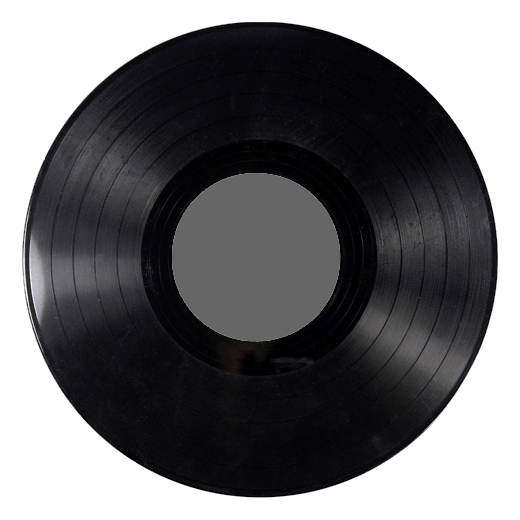
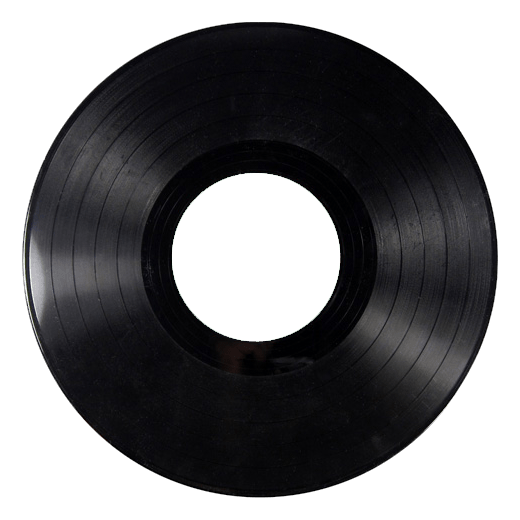
Fix background and remove disc rotation for performance

Changed region(s): [[0.3077, 0.3077, 0.6769, 0.6769]]

diff --git a/src/components/Player.js b/src/components/Player.js
@@ -15,26 +15,28 @@ export default class Player extends React.Component {
   render() {
     return (
       <div className="player">
-        <Grid className="player_grid">
-          <PlayerDisc album={this.props.album} playing={this.props.playing && !this.props.loading}/>
+        <div className="player_content">
+          <Grid className="player_grid">
+            <PlayerDisc album={this.props.album} playing={this.props.playing && !this.props.loading}/>
 
-          <PlayerDescription album={this.props.album}
-                             track={this.props.track}/>
+            <PlayerDescription album={this.props.album}
+                               track={this.props.track}/>
 
-          {!this.props.track ? null :
-            <PlayerControl playing={this.props.playing}
-                           loading={this.props.loading}
-                           onPlay={this.props.onPlay}
-                           onPause={this.props.onPause}/>
-          }
+            {!this.props.track ? null :
+              <PlayerControl playing={this.props.playing}
+                             loading={this.props.loading}
+                             onPlay={this.props.onPlay}
+                             onPause={this.props.onPause}/>
+            }
+          </Grid>
+        </div>
 
-          <PlayerAudio track={this.props.track}
-                       autoplay={this.props.autoplay}
-                       playing={this.props.playing}
-                       onPlay={this.props.onPlay}
-                       onPause={this.props.onPause}
-                       onEnd={this.props.onEnd}/>
-        </Grid>
+        <PlayerAudio track={this.props.track}
+                     autoplay={this.props.autoplay}
+                     playing={this.props.playing}
+                     onPlay={this.props.onPlay}
+                     onPause={this.props.onPause}
+                     onEnd={this.props.onEnd}/>
       </div>
     )
   }

diff --git a/src/components/player/PlayerDisc.js b/src/components/player/PlayerDisc.js
@@ -2,7 +2,7 @@ import * as React from "react";
 
 import {Image} from "react-bootstrap";
 
-import image from "../../images/vinyl.png";
+import image from "../../images/vinyl_small.png";
 import "./PlayerDisc.scss";
 
 export default class PlayerDisc extends React.Component {
@@ -14,7 +14,7 @@ export default class PlayerDisc extends React.Component {
       <div className={classes.join(' ')}>
         <Image className="player-disc_vinyl" src={image} responsive/>
         {!this.props.album ? null :
-          <Image className="player-disc_album" src={this.props.album.cover} circle/>
+          <Image className="player-disc_album" src={this.props.album.cover} circle responsive/>
         }
       </div>
     )

diff --git a/src/components/Player.scss b/src/components/Player.scss
@@ -1,13 +1,15 @@
 .player {
-  background: rgba(0, 0, 0, .95);
-  border-top: 1px solid rgba(0, 0, 0, 1);
-  padding: .75rem;
-  position: fixed;
-  height: 5.25rem;
-  bottom: 0;
-  left: 0;
-  width: 100%;
-  z-index: 1;
+  &_content {
+    background: rgba(0, 0, 0, .95);
+    border-top: 1px solid rgba(0, 0, 0, 1);
+    padding: .75rem;
+    position: fixed;
+    height: 5.25rem;
+    bottom: 0;
+    left: 0;
+    width: 100%;
+    z-index: 1;
+  }
 
   &_grid {
     position: relative;
@@ -22,7 +24,6 @@
   .player-control {
     position: absolute;
     right: 1rem;
-    margin-top: -1rem;
     top: 50%;
     transform: translateY(-50%);
   }

diff --git a/src/views/app/HomeView.js b/src/views/app/HomeView.js
@@ -17,7 +17,8 @@ export default class HomeView extends React.Component {
 
           <section className="home-view_title">
             <h1>A music player<br/>for modern browsers</h1>
-            <Link className="home-view_github" to="https://github.com/pedsmoreira/modern-vinyl-player/" target="_blank">
+            <Link className="home-view_github" to="https://github.com/pedsmoreira/modern-vinyl-player/"
+                  target="_blank">
               <Icon name="github"/> Github
             </Link>
           </section>

diff --git a/src/components/player/PlayerDisc.scss b/src/components/player/PlayerDisc.scss
@@ -15,18 +15,4 @@
     width: 30%;
     height: 30%;
   }
-
-  &-playing {
-    @-webkit-keyframes rotating {
-      from {
-        transform: rotate(0deg);
-      }
-
-      to {
-        transform: rotate(360deg);
-      }
-    }
-
-    animation: rotating 8s linear infinite;
-  }
 }

diff --git a/src/components/player/PlayerAudio.js b/src/components/player/PlayerAudio.js
@@ -1,6 +1,7 @@
-import React from 'react'
+import React from "react";
+import Youtube from "react-youtube";
 
-import Youtube from 'react-youtube'
+import "./PlayerAudio.scss";
 
 export default class PlayerAudio extends React.Component {
   target

diff --git a/src/views/AppView.scss b/src/views/AppView.scss
@@ -1,7 +1,10 @@
 @import "../constants/colors";
 
-.app-view {
+body {
   background: #333;
+}
+
+.app-view {
   color: #eee;
   font-family: 'KenvectorFutureThin', serif;
   padding-bottom: 5.25rem;

diff --git a/src/views/app/HomeView.scss b/src/views/app/HomeView.scss
@@ -7,7 +7,6 @@
 
   &_title {
     text-align: center;
-    //font-family: 'Oswald', sans-serif;
   }
 
   &_github {

diff --git a/src/components/player/PlayerAudio.scss b/src/components/player/PlayerAudio.scss
@@ -1,0 +1,3 @@
+.player-audio {
+  display: none;
+}
